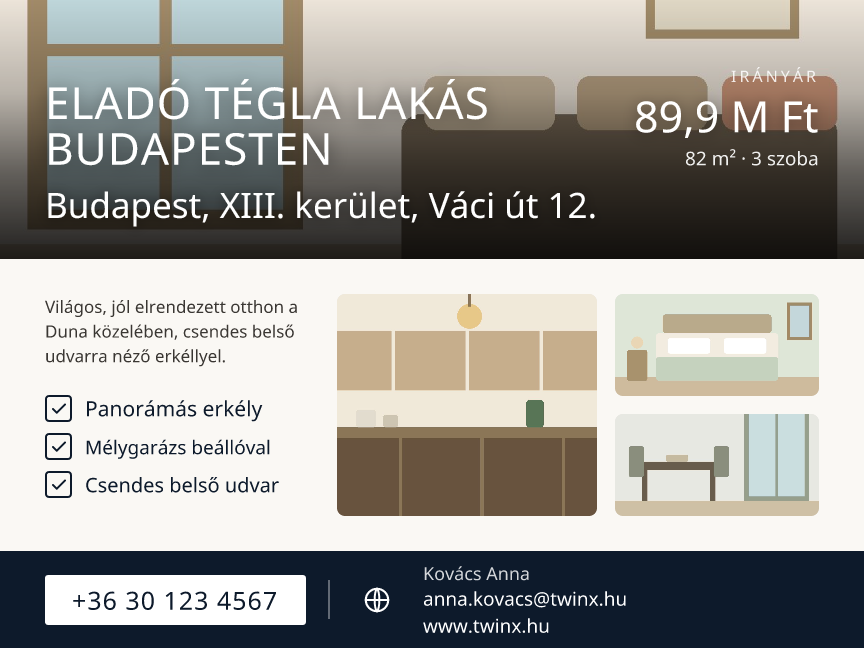
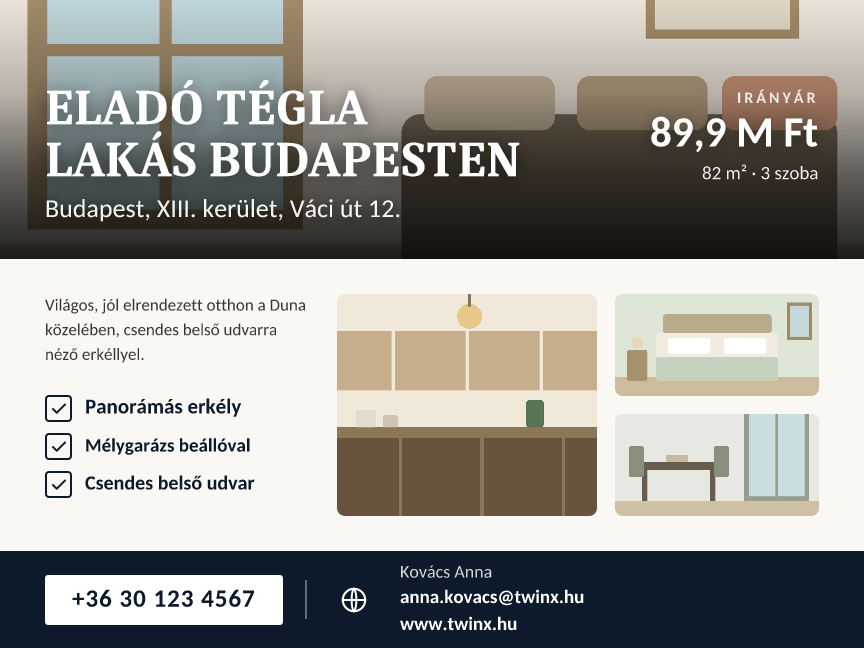
Magazin sablon: visszafogottabb, vékonyabb lakáscím a főcím alatt

diff --git a/src/lib/flyer-satori-openhouse.tsx b/src/lib/flyer-satori-openhouse.tsx
@@ -61,10 +61,10 @@ export function buildOpenHouseElement(o: RenderOpts, family: string): React.Reac
   const innerW = W - 2 * P;
   const subFs = subtitle
     ? Math.max(
-        Math.round(20 * u),
+        Math.round(18 * u),
         Math.min(
-          Math.round((g.story ? 52 : 46) * u),
-          Math.floor((innerW * 0.97) / (subtitle.length * 0.58))
+          Math.round((g.story ? 36 : 32) * u),
+          Math.floor((innerW * 0.97) / (subtitle.length * 0.55))
         )
       )
     : 0;
@@ -101,10 +101,11 @@ export function buildOpenHouseElement(o: RenderOpts, family: string): React.Reac
   const subRow = subtitle
     ? box(
         {
-          width: innerW, flexShrink: 0, marginTop: Math.round(14 * u),
-          fontSize: subFs, fontWeight: 700, color: "#ffffff",
+          width: innerW, flexShrink: 0, marginTop: Math.round(12 * u),
+          // Visszafogott: normál vastagság, enyhén halványítva — a főcím marad a hangsúlyos.
+          fontSize: subFs, fontWeight: 400, color: "#ffffff", opacity: 0.94,
           lineHeight: 1.28, whiteSpace: "nowrap",
-          textShadow: "0 2px 12px rgba(0,0,0,0.6)",
+          textShadow: "0 2px 10px rgba(0,0,0,0.55)",
         },
         subtitle
       )
